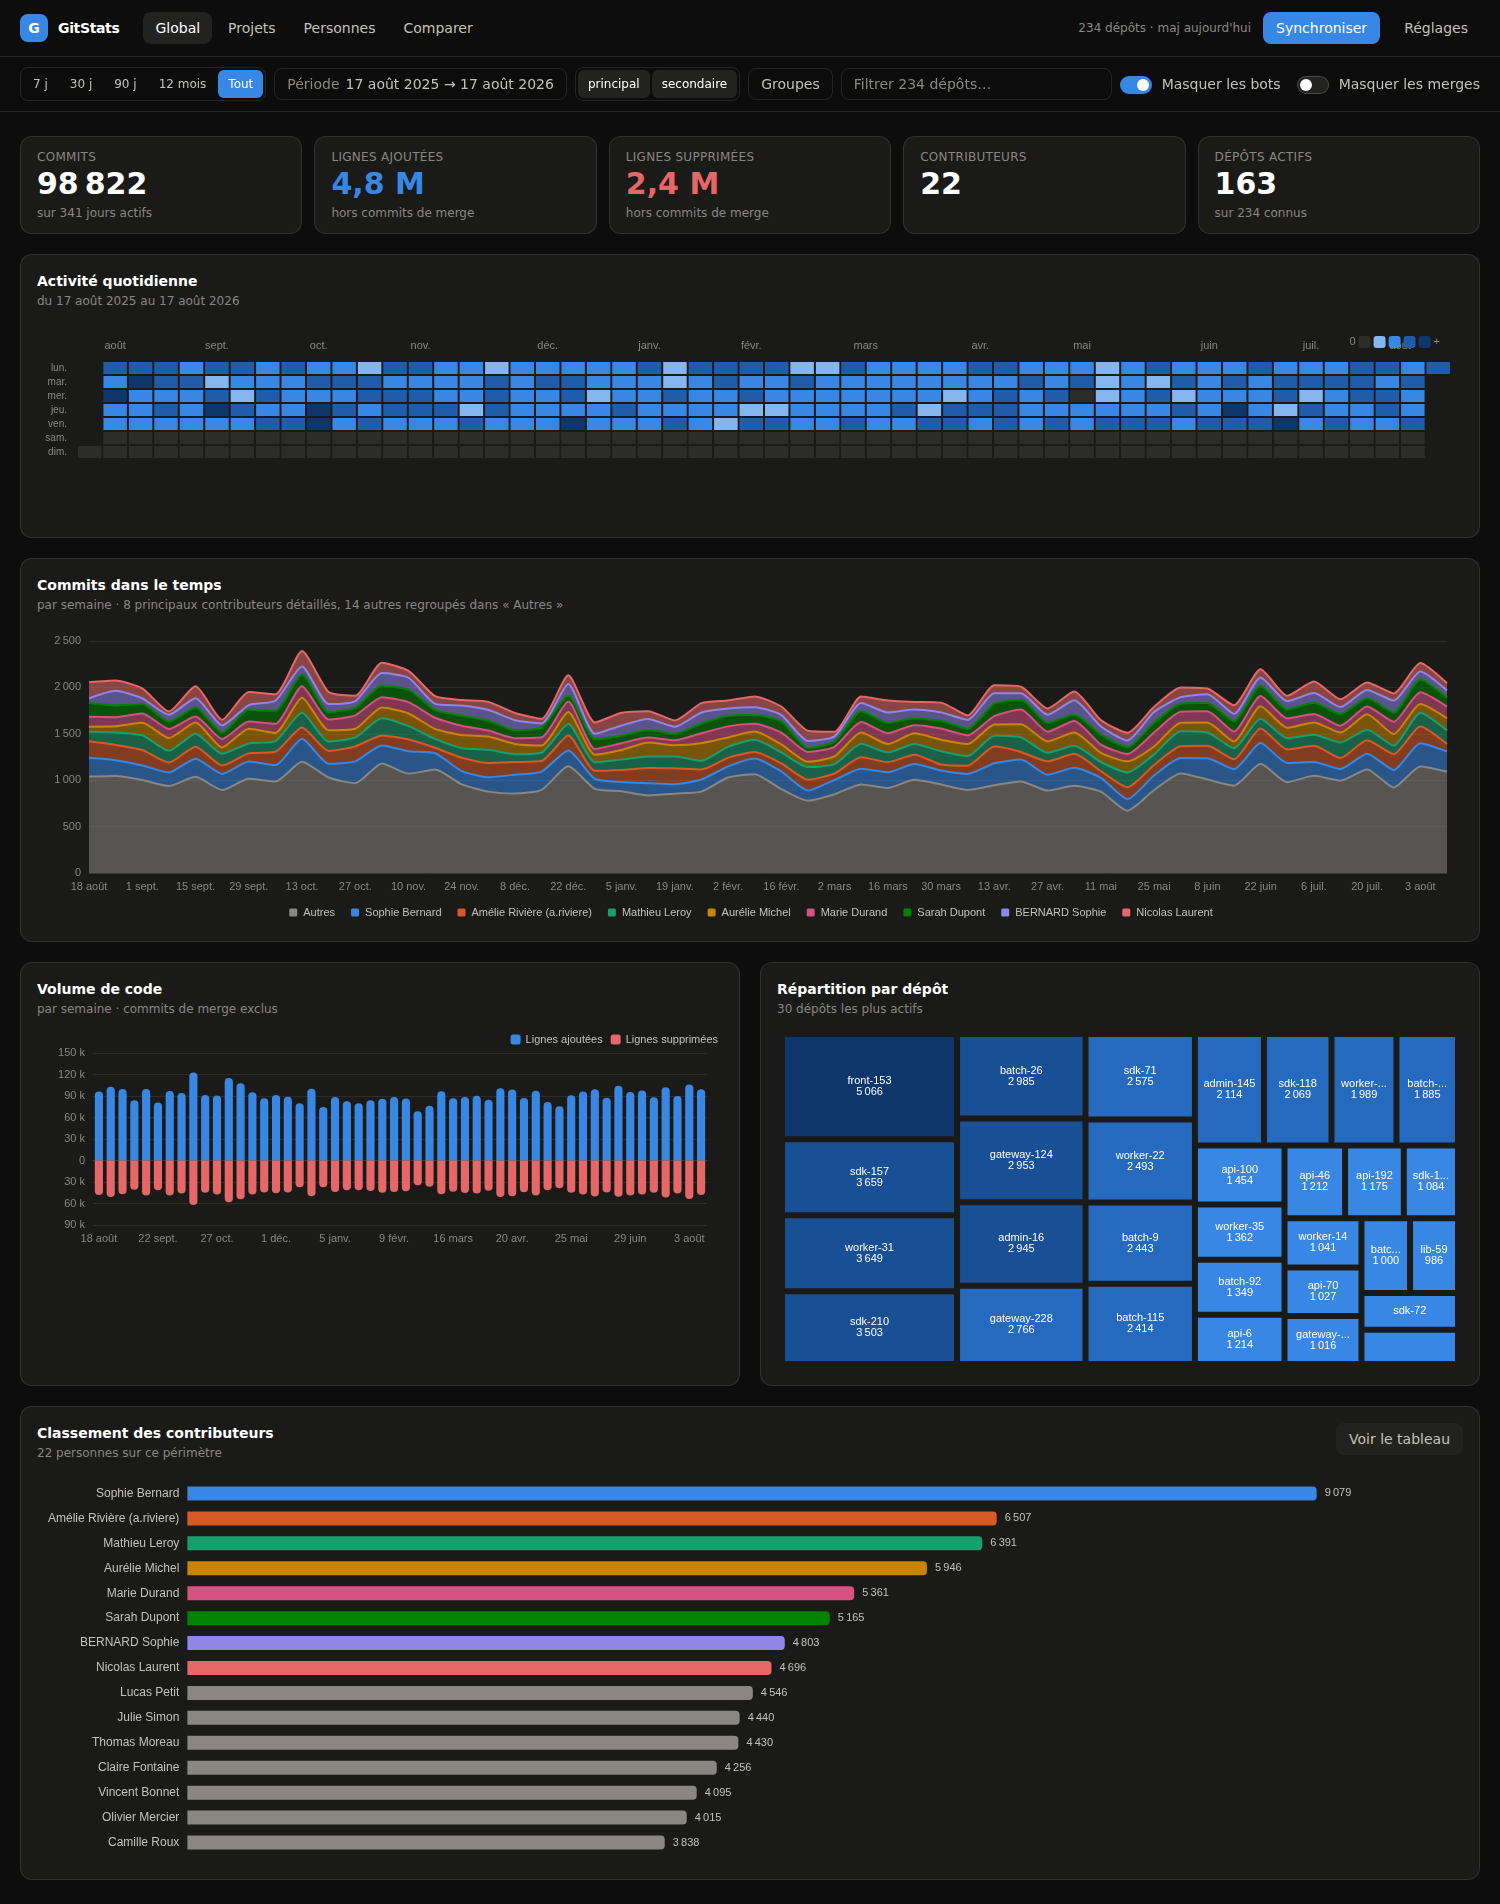
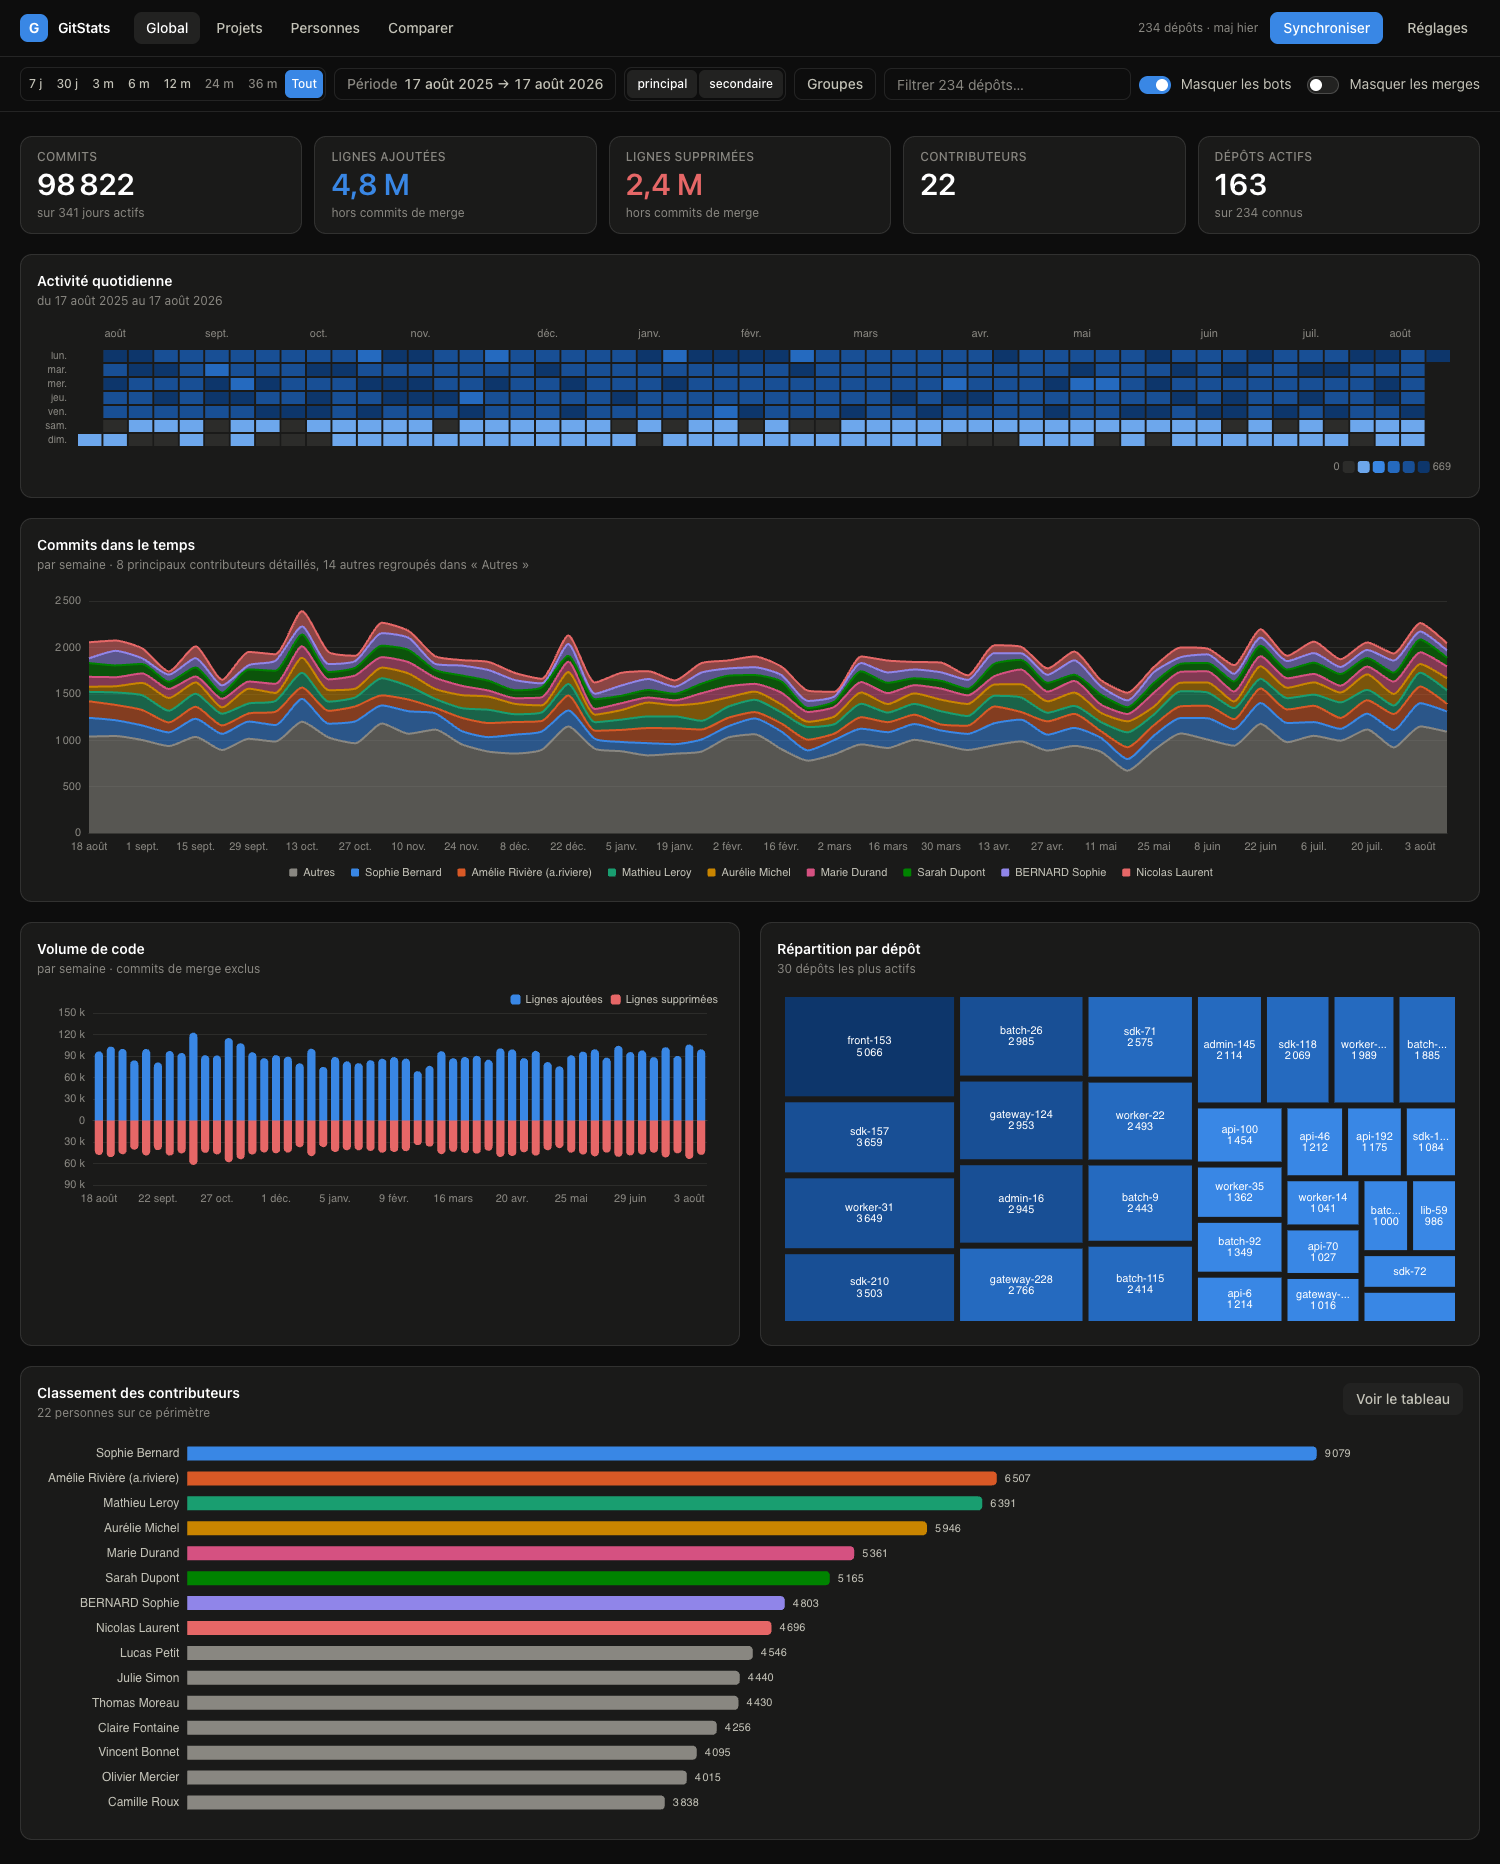
fix(calendar): keep single-commit days visible and stop the legend overlapping months

diff --git a/src/components/charts/charts.tsx b/src/components/charts/charts.tsx
@@ -16,7 +16,7 @@ import { useMemo } from 'react';
 import type { EChartsOption } from 'echarts';
 import { EChart, axisStyle, tooltipStyle } from './EChart';
 import type { Palette, ColorAssignment } from '../../viz/palette';
-import { sequentialColor, OTHER_LABEL } from '../../viz/palette';
+import { sequentialColor, sequentialBreaks, sequentialRamp, OTHER_LABEL } from '../../viz/palette';
 import { OTHER_SERIES_ID, type DayPoint, type Granularity } from '../../query/selectors';
 import { formatNumber, formatCompact, formatDay } from '../ui/primitives';
 
@@ -160,14 +160,35 @@ export function CommitTimeline({
 }
 
 /**
+ * Le calendrier s'ancre en haut et sa hauteur de grille est fixe : la hauteur
+ * du composant est donc une somme, pas une valeur devinée. La légende passe
+ * SOUS la grille — au-dessus, elle recouvre les libellés de mois qu'ECharts
+ * dessine 10 px hors du rectangle du calendrier.
+ */
+const CELL_HEIGHT = 14;
+const WEEK_ROWS = 7;
+const MONTH_BAND = 28; // marge d'ECharts (10 px) + une ligne de texte de 11 px
+const LEGEND_GAP = 14;
+const LEGEND_ITEM = 12;
+const LEGEND_TOP = MONTH_BAND + WEEK_ROWS * CELL_HEIGHT + LEGEND_GAP;
+const CALENDAR_HEIGHT = LEGEND_TOP + LEGEND_ITEM + 8;
+
+/** Libellé d'un palier de la légende : « 1 », « 4 à 6 », « 7 et + ». */
+function pieceLabel(from: number, next: number | undefined): string {
+  if (next === undefined) return `${formatNumber(from)} et +`;
+  if (next - from === 1) return formatNumber(from);
+  return `${formatNumber(from)} à ${formatNumber(next - 1)}`;
+}
+
+/**
  * Calendrier d'activité type GitHub.
- * Encodage séquentiel : une seule teinte, clair → foncé. Une légende d'échelle
- * accompagne obligatoirement le dégradé.
+ * Encodage séquentiel : une seule teinte, clair → foncé, accompagnée d'une
+ * légende d'échelle placée sous la grille.
  */
 export function ActivityCalendar({
   points,
   palette,
-  height = 200,
+  height = CALENDAR_HEIGHT,
   stale,
 }: {
   points: DayPoint[];
@@ -180,6 +201,24 @@ export function ActivityCalendar({
     const max = points.reduce((best, point) => Math.max(best, point.commits), 0);
     const first = points[0]!.day;
     const last = points[points.length - 1]!.day;
+
+    // Paliers explicites plutôt que le découpage automatique d'ECharts, qui est
+    // linéaire : sur une période large, il rangeait les journées à 1-4 commits
+    // dans le même seau que les journées vides, et les peignait du même gris.
+    const breaks = sequentialBreaks(max);
+    const ramp = sequentialRamp(breaks.length, palette);
+    const pieces = [
+      // Le zéro porte le gris, et c'est le seul à le porter. Borner par `lt: 1`
+      // plutôt que par la valeur exacte rend la couverture totale : aucune
+      // valeur ne peut retomber sur l'interpolation de secours d'ECharts.
+      { lt: 1, label: '0', color: palette.grid },
+      ...breaks.map((from, index) => ({
+        gte: from,
+        ...(breaks[index + 1] === undefined ? {} : { lt: breaks[index + 1] }),
+        label: pieceLabel(from, breaks[index + 1]),
+        color: ramp[index]!,
+      })),
+    ];
 
     return {
       animation: false,
@@ -194,28 +233,40 @@ export function ActivityCalendar({
         },
       },
       visualMap: {
-        min: 0,
-        max: Math.max(1, max),
         type: 'piecewise',
         orient: 'horizontal',
-        right: 8,
-        top: 0,
-        itemWidth: 12,
-        itemHeight: 12,
+        top: LEGEND_TOP,
+        right: 12,
+        // Le défaut d'ECharts est 15 px, appliqués AVANT le positionnement :
+        // c'est lui qui faisait retomber les pastilles sur les libellés de mois.
+        padding: 0,
+        itemWidth: LEGEND_ITEM,
+        itemHeight: LEGEND_ITEM,
         itemGap: 3,
+        pieces,
+        // Les libellés chiffrés des paliers tripleraient la largeur de la
+        // bande ; ils restent renseignés, les afficher tient en une ligne.
         showLabel: false,
-        text: ['+', '0'],
+        // L'échelle s'adapte à la période : annoncer le maximum réel vaut mieux
+        // qu'un « + » muet. Période vide : rien à annoncer.
+        text: [max > 0 ? formatNumber(max) : '', '0'],
         textStyle: { color: palette.textMuted, fontSize: 11 },
+        // Les pastilles sont cliquables par défaut et masquent leur palier,
+        // mais la sélection est effacée au changement de filtre suivant : une
+        // interaction invisible qui disparaît toute seule ne vaut rien.
+        selectedMode: false,
         // Rampe à une seule teinte : jamais d'arc-en-ciel pour une magnitude.
-        inRange: {
-          color: [palette.grid, ...palette.sequential.slice(1)],
-        },
+        // Sans ce repli, ECharts en fabrique un.
+        inRange: { color: ramp },
       },
       calendar: {
-        top: 40,
+        top: MONTH_BAND,
         left: 40,
         right: 12,
-        cellSize: ['auto', 14],
+        // Ne jamais ajouter `bottom` ici : renseigner les deux bornes ferait
+        // basculer la hauteur de cellule en « auto » et étirerait les 7 lignes
+        // sur toute la carte.
+        cellSize: ['auto', CELL_HEIGHT],
         range: [first, last],
         splitLine: { show: false },
         itemStyle: {

diff --git a/src/viz/palette.test.ts b/src/viz/palette.test.ts
@@ -1,0 +1,95 @@
+import { describe, expect, it } from 'vitest';
+import { sequentialBreaks, sequentialRamp, type Palette } from './palette';
+
+/**
+ * Palette minimale : ces deux fonctions ne lisent que `sequential` et `grid`.
+ * Les pas sont nommés pour que l'assertion dise quel pas a été retenu, plutôt
+ * qu'un hexadécimal illisible.
+ */
+const palette = {
+  series: [],
+  sequential: ['seq-100', 'seq-200', 'seq-300', 'seq-400', 'seq-500', 'seq-600', 'seq-700'],
+  grid: 'grid',
+} as unknown as Palette;
+
+describe('sequentialBreaks — les petites journées ne doivent pas passer pour du vide', () => {
+  it('place le tout premier commit hors du gris, quelle que soit la période', () => {
+    for (const max of [1, 7, 40, 500]) {
+      expect(sequentialBreaks(max)[0]).toBe(1);
+    }
+  });
+
+  it('répartit les paliers en racine et non linéairement', () => {
+    // En linéaire, ce serait [1, 20, 40, 60, 80] : tout le bas de la
+    // distribution — l'écrasante majorité des jours — dans un seul palier.
+    expect(sequentialBreaks(100)).toEqual([1, 4, 16, 36, 64]);
+  });
+
+  it('donne la moitié des paliers au bas de la distribution', () => {
+    const breaks = sequentialBreaks(400);
+    expect(breaks).toEqual([1, 16, 64, 144, 256]);
+    // Les trois premiers paliers couvrent moins du quart de l'amplitude.
+    expect(breaks[3]!).toBeLessThan(400 / 2);
+  });
+
+  it('ne produit jamais deux paliers de même borne sur une période calme', () => {
+    expect(sequentialBreaks(2)).toEqual([1, 2]);
+    expect(sequentialBreaks(3)).toEqual([1, 2, 3]);
+  });
+
+  it('donne un palier par valeur quand le maximum est très bas', () => {
+    expect(sequentialBreaks(4)).toEqual([1, 2, 3, 4]);
+  });
+
+  it('traite une période sans aucun commit comme un maximum de 1', () => {
+    expect(sequentialBreaks(0)).toEqual([1]);
+    expect(sequentialBreaks(-3)).toEqual([1]);
+  });
+
+  it('garde des bornes croissantes, plafonnées, et jamais au-delà du maximum', () => {
+    for (let max = 1; max <= 500; max += 1) {
+      const breaks = sequentialBreaks(max);
+      expect(breaks[0]).toBe(1);
+      expect(breaks.length).toBeLessThanOrEqual(5);
+      expect(breaks[breaks.length - 1]!).toBeLessThanOrEqual(max);
+      for (let i = 1; i < breaks.length; i += 1) {
+        expect(breaks[i]!).toBeGreaterThan(breaks[i - 1]!);
+      }
+    }
+  });
+});
+
+describe('sequentialRamp — une seule teinte, lisible sur les deux thèmes', () => {
+  it('démarre au pas 300, jamais sur les deux pas les plus pâles', () => {
+    // Sur le gris des cases vides, les pas 100 et 200 tiennent 1,00:1 et
+    // 1,35:1 en thème clair : une journée à un commit y disparaîtrait.
+    for (let count = 1; count <= 5; count += 1) {
+      const ramp = sequentialRamp(count, palette);
+      expect(ramp[0]).toBe('seq-300');
+      expect(ramp).not.toContain('seq-100');
+      expect(ramp).not.toContain('seq-200');
+    }
+  });
+
+  it('couvre toute la fenêtre lisible quand les cinq paliers sont là', () => {
+    expect(sequentialRamp(5, palette)).toEqual([
+      'seq-300',
+      'seq-400',
+      'seq-500',
+      'seq-600',
+      'seq-700',
+    ]);
+  });
+
+  it('étale les teintes quand il reste peu de paliers', () => {
+    // Une période à deux commits garde un écart franc entre « 1 » et « 2 ».
+    expect(sequentialRamp(2, palette)).toEqual(['seq-300', 'seq-700']);
+    expect(sequentialRamp(3, palette)).toEqual(['seq-300', 'seq-500', 'seq-700']);
+  });
+
+  it('rend exactement autant de couleurs que de paliers', () => {
+    for (let count = 1; count <= 5; count += 1) {
+      expect(sequentialRamp(count, palette)).toHaveLength(count);
+    }
+  });
+});

diff --git a/src/viz/palette.ts b/src/viz/palette.ts
@@ -112,6 +112,12 @@ export function assignColors(rankedIds: string[], palette: Palette): ColorAssign
   };
 }
 
+/** Nombre de paliers colorés du calendrier d'activité. */
+const SEQUENTIAL_TIERS = 5;
+
+/** Index de `--seq-300` dans la rampe : voir `sequentialRamp`. */
+const CALENDAR_FIRST_STEP = 2;
+
 /** Rampe séquentielle : magnitude continue, une seule teinte clair → foncé. */
 export function sequentialColor(value: number, max: number, palette: Palette): string {
   if (max <= 0 || value <= 0) return palette.grid;
@@ -122,4 +128,56 @@ export function sequentialColor(value: number, max: number, palette: Palette): s
   const ratio = Math.sqrt(Math.min(1, value / max));
   const index = Math.min(steps.length - 1, Math.max(0, Math.round(ratio * (steps.length - 1))));
   return steps[index] ?? palette.grid;
+}
+
+/**
+ * Bornes basses des paliers d'une rampe séquentielle discrète, en racine.
+ *
+ * Les distributions Git sont très asymétriques : un jour à 40 commits, cent
+ * jours à 1. Découpé linéairement sur [0, max], le premier palier avale tous
+ * les jours à 1-4 commits, qui se confondent alors avec les jours vides — la
+ * personne semble n'avoir rien fait. En racine, le bas de la distribution
+ * récupère la moitié des paliers.
+ *
+ * La première borne vaut TOUJOURS 1 : un commit doit sortir du gris, quelle
+ * que soit la période regardée.
+ */
+export function sequentialBreaks(max: number, tiers = SEQUENTIAL_TIERS): number[] {
+  const top = Math.max(1, Math.floor(max));
+  const breaks = [1];
+
+  for (let index = 1; index < tiers; index += 1) {
+    // Numérateur entier : `top * (index / tiers) ** 2` donne 16.000000000000004
+    // pour (400, 1, 5), et l'arrondi supérieur remonterait la borne à 17.
+    const bound = Math.ceil((top * index * index) / (tiers * tiers));
+    // Sur une période calme (max = 2, 3, 4), deux bornes en racine tombent sur
+    // le même entier. Les garder afficherait des pastilles de légende qui ne
+    // coloreraient jamais rien, et ECharts supprime silencieusement les
+    // intervalles dégénérés : on déduplique.
+    if (bound > breaks[breaks.length - 1]! && bound <= top) breaks.push(bound);
+  }
+
+  // Il reste des paliers libres après déduplication : le jour record mérite la
+  // teinte la plus foncée plutôt que de partager celle de son voisin.
+  if (breaks.length < tiers && top > breaks[breaks.length - 1]!) breaks.push(top);
+
+  return breaks;
+}
+
+/**
+ * Teintes du calendrier d'activité, de la plus pâle à la plus foncée.
+ *
+ * La rampe démarre au pas 300, pas au 100 : sur le gris des cases vides — le
+ * fond réel des cellules — les pas 100 et 200 tiennent 1,00:1 et 1,35:1 en
+ * thème clair. Une journée à un commit y serait aussi invisible que le vide
+ * qu'on cherche justement à en distinguer. Le pas 300 est le premier lisible
+ * sur les deux surfaces, ce qui évite d'avoir à connaître le thème ici.
+ */
+export function sequentialRamp(count: number, palette: Palette): string[] {
+  const steps = palette.sequential.slice(CALENDAR_FIRST_STEP);
+  const last = steps.length - 1;
+  return Array.from(
+    { length: count },
+    (_, index) => steps[count <= 1 ? 0 : Math.round((index * last) / (count - 1))] ?? palette.grid,
+  );
 }
